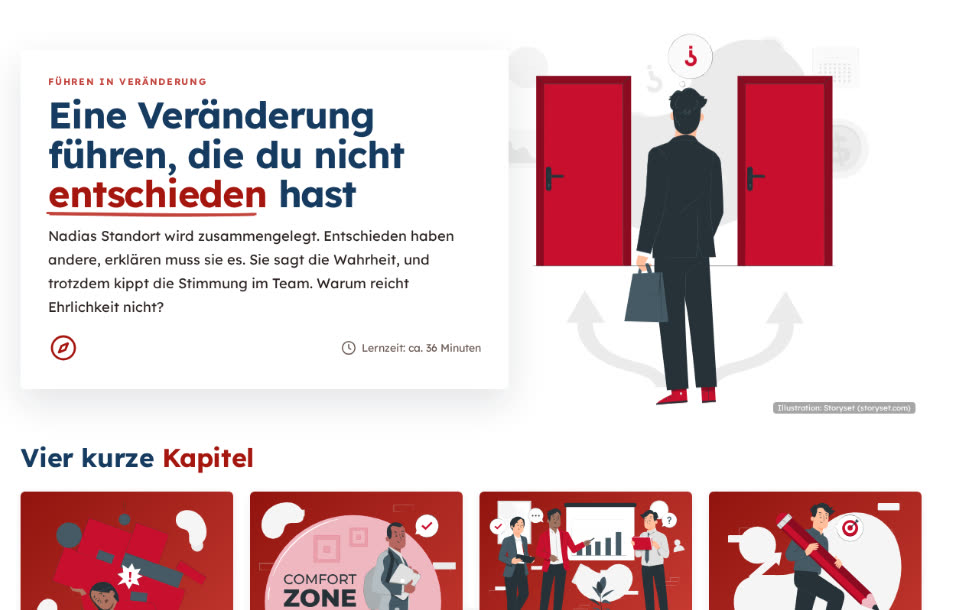
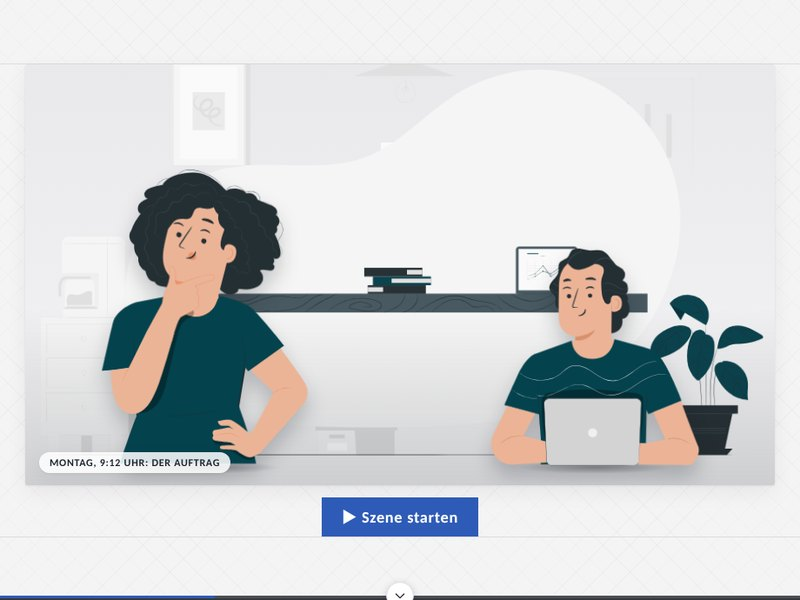
UX: Menü am Handy, Abstand Über mich, Comic-Look in Blau, Abspielknopf am Handy, Fußzeile vollständig
Claude-Session: https://claude.ai/code/session_01WgH7wEKPCAfXi4oXrFPgxG

diff --git a/index.html b/index.html
@@ -79,7 +79,24 @@ section { padding: clamp(72px, 9vw, 140px) 0; position: relative; }
 .nav a { text-decoration: none; font-size: 16px; font-weight: 500; color: var(--on-night-2); }
 .nav a:hover { color: var(--on-night); }
 .top .btn { min-height: 42px; padding: 8px 18px; font-size: 15px; }
-@media (max-width: 900px) { .nav { display: none; } .top .btn { margin-left: auto; } }
+.menu-btn { display: none; }
+@media (max-width: 900px) {
+  .nav { display: none; }
+  .top .wrap { gap: 10px; }
+  .top .btn { margin-left: 0; }
+  .menu-btn { display: inline-flex; align-items: center; gap: 10px; margin-left: auto; min-height: 42px; padding: 8px 14px; border: 1px solid var(--line-night); border-radius: 999px; background: transparent; color: var(--on-night); font: inherit; font-size: 15px; font-weight: 600; cursor: pointer; }
+  .menu-ico, .menu-ico::before, .menu-ico::after { display: block; width: 16px; height: 2px; background: currentColor; transition: transform .25s, background .2s; }
+  .menu-ico { position: relative; }
+  .menu-ico::before, .menu-ico::after { content: ''; position: absolute; left: 0; }
+  .menu-ico::before { top: -5px; } .menu-ico::after { top: 5px; }
+  .top.open .menu-ico { background: transparent; }
+  .top.open .menu-ico::before { transform: translateY(5px) rotate(45deg); }
+  .top.open .menu-ico::after { transform: translateY(-5px) rotate(-45deg); }
+  .top.open, .top.open.solid { background: rgba(0,41,65,.98); border-bottom-color: var(--line-night); }
+  .top.open .nav { display: flex; flex-direction: column; gap: 0; position: absolute; top: 100%; left: 0; right: 0; padding: 8px clamp(18px, 4.5vw, 48px) 20px; background: rgba(0,41,65,.98); border-bottom: 1px solid var(--line-night); }
+  .top.open .nav a { padding: 14px 0; font-size: 20px; font-weight: 600; color: var(--on-night); border-bottom: 1px solid var(--line-night); }
+}
+@media (max-width: 380px) { .menu-btn { padding: 8px 12px; } .top .btn { padding: 8px 14px; } }
 
 /* Titel */
 .hero { padding-top: clamp(120px, 15vw, 190px); padding-bottom: 0; }
@@ -115,7 +132,7 @@ section { padding: clamp(72px, 9vw, 140px) 0; position: relative; }
 .reel-play span { display: grid; place-items: center; width: clamp(88px, 9vw, 120px); aspect-ratio: 1; border-radius: 50%; background: var(--blue-ink); color: #fff; font-weight: 700; font-size: 17px; transition: transform .35s var(--ease); }
 .reel-play:hover span { transform: scale(1.08); }
 .reel-play[hidden] { display: none; }
-@media (max-width: 600px) { .reel-play span { width: 64px; font-size: 13px; } .tag { flex-wrap: wrap; gap: 4px 12px; } }
+@media (max-width: 600px) { .reel-play { place-items: end start; padding: 12px; } .reel-play span { width: auto; aspect-ratio: auto; min-height: 44px; padding: 10px 18px; border-radius: 999px; font-size: 15px; } .tag { flex-wrap: wrap; gap: 4px 12px; } }
 
 /* Angebot */
 .bento { display: grid; grid-template-columns: repeat(12, 1fr); gap: 18px; margin-top: 48px; }
@@ -403,6 +420,7 @@ video:focus-visible, iframe:focus { outline: 3px solid var(--blue); outline-offs
 .about { background: var(--sand); color: var(--ink); }
 .helpsec { background: var(--night2); }
 .about .intro { color: var(--muted); margin-bottom: 16px; }
+.about .big { margin-bottom: clamp(20px, 2.4vw, 32px); }
 .about .tag b { color: var(--ink); }
 .about-grid { display: grid; grid-template-columns: .9fr 1.1fr; gap: clamp(32px, 5vw, 80px); align-items: center; }
 .about-pic { margin: 0; }
@@ -417,13 +435,14 @@ video:focus-visible, iframe:focus { outline: 3px solid var(--blue); outline-offs
 <header class="top" data-top>
   <div class="wrap">
     <a class="brand" href="#start" aria-label="Kerstin Rafai, zur Startseite"><span class="logo" aria-hidden="true">KR</span></a>
-    <nav class="nav" aria-label="Bereiche">
+    <nav class="nav" id="hauptnav" aria-label="Bereiche">
       <a href="#angebot">Angebot</a>
       <a href="#unterstuetzung">Unterstützung</a>
       <a href="#kurse">Beispielkurse</a>
       <a href="#ueber-mich">Über mich</a>
       <a href="#ablauf">Ablauf</a>
     </nav>
+    <button class="menu-btn" type="button" aria-expanded="false" aria-controls="hauptnav" data-menu><span class="menu-ico" aria-hidden="true"></span><span data-menu-label>Menü</span></button>
     <a class="btn" href="#kontakt">Erstgespräch</a>
   </div>
 </header>
@@ -578,7 +597,7 @@ video:focus-visible, iframe:focus { outline: 3px solid var(--blue); outline-offs
     </div>
     <div class="looks">
       <figure class="rv"><div class="frame"><img src="media/look-foto.jpg" alt="Foto mit sechs Fragen als Punkte im Bild" loading="lazy"></div><figcaption><b>Foto</b>Wenn sich Ihre Leute in der Situation wiedererkennen sollen.</figcaption></figure>
-      <figure class="rv" style="--d:1"><div class="frame"><img src="media/look-comic.jpg" alt="Titelseite mit Illustration: Eine Veränderung führen, die du nicht entschieden hast" loading="lazy"></div><figcaption><b>Comic und Illustration</b>Wenn ein Thema heikel ist und etwas Abstand braucht.</figcaption></figure>
+      <figure class="rv" style="--d:1"><div class="frame"><img src="media/look-comic.jpg" alt="Comic-Szene mit Mia und Can im Büro aus dem Kurs KI Basiswissen" loading="lazy"></div><figcaption><b>Comic und Illustration</b>Wenn ein Thema heikel ist und etwas Abstand braucht.</figcaption></figure>
       <figure class="rv" style="--d:2"><div class="frame"><img src="media/look-micro.jpg" alt="Titelfolie der Microlearning-Einheit Der Hebel bist du" loading="lazy"></div><figcaption><b>Microlearning</b>Für Reihen über mehrere Wochen, je Einheit 10 bis 15 Minuten.</figcaption></figure>
     </div>
   </div>
@@ -670,7 +689,7 @@ video:focus-visible, iframe:focus { outline: 3px solid var(--blue); outline-offs
 
 <footer>
   <div class="wrap">
-    <nav class="foot-nav" aria-label="Fußzeile"><a href="#angebot">Angebot</a><a href="#unterstuetzung">Unterstützung</a><a href="#kurse">Beispielkurse</a><a href="#videos">Videos</a><a href="#kontakt">Kontakt</a><a href="impressum.html">Impressum</a><a href="datenschutz.html">Datenschutz</a><a href="#start">Nach oben ↑</a></nav>
+    <nav class="foot-nav" aria-label="Fußzeile"><a href="#angebot">Angebot</a><a href="#unterstuetzung">Unterstützung</a><a href="#kurse">Beispielkurse</a><a href="#videos">Videos</a><a href="#ueber-mich">Über mich</a><a href="#ablauf">Ablauf</a><a href="#kontakt">Kontakt</a><a href="impressum.html">Impressum</a><a href="datenschutz.html">Datenschutz</a><a href="#start">Nach oben ↑</a></nav>
     <span>© Kerstin Rafai</span>
     <span>Bilder in den Kursbeispielen: Pexels und Storyset (storyset.com). Erstellt mit KI-Unterstützung, von mir geprüft.</span>
   </div>
@@ -700,6 +719,12 @@ video:focus-visible, iframe:focus { outline: 3px solid var(--blue); outline-offs
 
   // Kopfleiste bekommt beim Scrollen einen Grund, Foto bewegt sich leicht
   var top = $('[data-top]'), pic = $('[data-parallax]');
+  var mb = $('[data-menu]'), ml = $('[data-menu-label]');
+  function menu(open) { top.classList.toggle('open', open); mb.setAttribute('aria-expanded', open ? 'true' : 'false'); ml.textContent = open ? 'Schließen' : 'Menü'; }
+  mb.addEventListener('click', function () { menu(!top.classList.contains('open')); });
+  $$('#hauptnav a').forEach(function (a) { a.addEventListener('click', function () { menu(false); }); });
+  document.addEventListener('keydown', function (e) { if (e.key === 'Escape' && top.classList.contains('open')) { menu(false); mb.focus(); } });
+  window.matchMedia('(min-width: 901px)').addEventListener('change', function (m) { if (m.matches) menu(false); });
   function onScroll() {
     var y = window.scrollY;
     top.classList.toggle('solid', y > 40);
